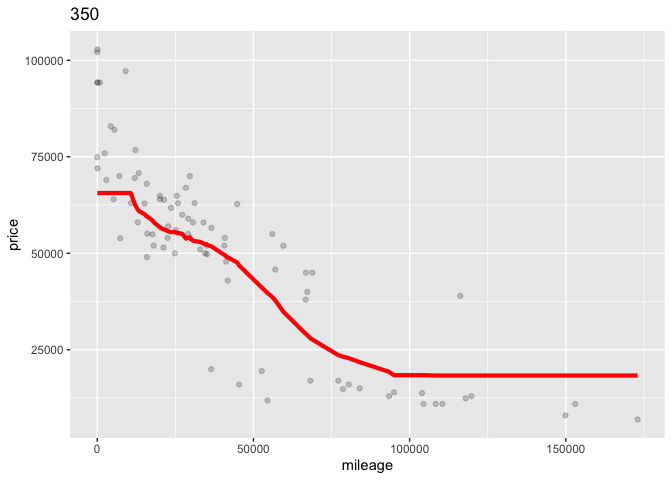
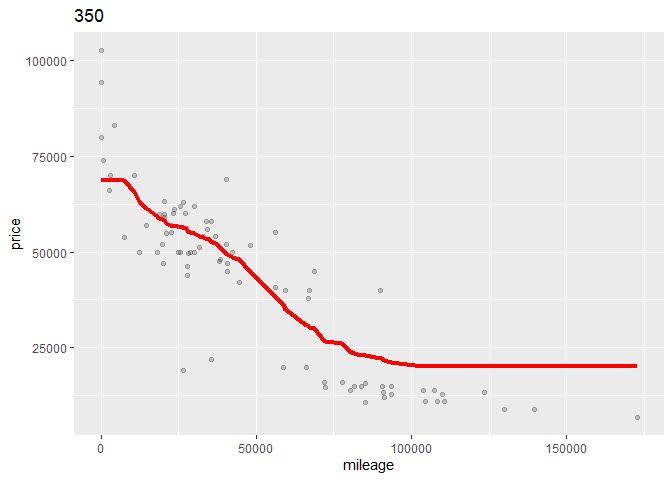
update some revision

diff --git a/Assignment-1.md b/Assignment-1.md
@@ -6,93 +6,132 @@ Li\_Zhao\_Du
 
 Yi\_Ji\_Gao
 
-## question 1
+question 1
+----------
 
 calculate the average departure delay time over 2008 and make a plot to
 show that
 
 ![](Assignment-1_files/figure-markdown_strict/plot%20average%20departure%20delay%20time%20over%202008-1.png)
 
-we can see the result that in most time, the delay time fluctulate
-between 0 and 20, and around Oct, the delay time is relatively small.
+we can see the result that in most time, the delay time flactulate
+between 0 and 20 minutes, and around Oct, the delay time is relatively
+small, around 5 minutes.
+
+next we try to calculate the average delay time base on average day, to
+reduce unnecessary trouble, we calculate the average delay time by hour
 
 ![](Assignment-1_files/figure-markdown_strict/delay%20day-1.png)
 
 we can find from 6am, the average delay time is increased in general,
-and due to schedule arrangement, there is no flight delarture between 00
+and due to schedule arrangement, there is no flight departure between 00
 and 06
 
 so we give a suggestion: try to catch earlier flight rather than later
 flight
 
+We finally analyzed the relationship between delay time and airlines.
+First, we selected airlines with more than 50 flights, and then
+calculated their average delay time according to their Time scheduled
+departure time.
+
 ![](Assignment-1_files/figure-markdown_strict/delay%20time%20affected%20by%20airline-1.png)
 
 from that plot we can see that overall, US airline has the minimum delay
-time, but we lack their data in some months, maybe they doesn’t arrange
-flightline during these months
+time, but we lack their data in some months or some time intervals,
+maybe they doesn’t arrange flight line during these conditions.
 
-## question 2
+question 2
+----------
 
-    ## # A tibble: 10 × 3
+part\_A Make a table of the top 10 most popular songs since 1958, as
+measured by the total number of weeks that a song spent on the Billboard
+Top 100.
+
+we get the result:
+
+    ## # A tibble: 10 x 3
     ## # Groups:   performer [10]
-    ##    performer                                 song                          count
-    ##    <chr>                                     <chr>                         <int>
-    ##  1 Imagine Dragons                           Radioactive                      87
-    ##  2 AWOLNATION                                Sail                             79
-    ##  3 Jason Mraz                                I'm Yours                        76
-    ##  4 The Weeknd                                Blinding Lights                  76
-    ##  5 LeAnn Rimes                               How Do I Live                    69
-    ##  6 LMFAO Featuring Lauren Bennett & GoonRock Party Rock Anthem                68
-    ##  7 OneRepublic                               Counting Stars                   68
-    ##  8 Adele                                     Rolling In The Deep              65
-    ##  9 Jewel                                     Foolish Games/You Were Meant…    65
-    ## 10 Carrie Underwood                          Before He Cheats                 64
+    ##    performer                              song                             count
+    ##    <chr>                                  <chr>                            <int>
+    ##  1 Imagine Dragons                        Radioactive                         87
+    ##  2 AWOLNATION                             Sail                                79
+    ##  3 Jason Mraz                             I'm Yours                           76
+    ##  4 The Weeknd                             Blinding Lights                     76
+    ##  5 LeAnn Rimes                            How Do I Live                       69
+    ##  6 LMFAO Featuring Lauren Bennett & Goon~ Party Rock Anthem                   68
+    ##  7 OneRepublic                            Counting Stars                      68
+    ##  8 Adele                                  Rolling In The Deep                 65
+    ##  9 Jewel                                  Foolish Games/You Were Meant Fo~    65
+    ## 10 Carrie Underwood                       Before He Cheats                    64
 
 from the table we can get top 10 most popular songs since 1958
 
-partB
+partB Is the “musical diversity” of the Billboard Top 100 changing over
+time?
 
 we first excludes the years 1958 and 2021 then we can counts the number
 of times that a given song appears on the Top 100 in a given year
 
-    ## # A tibble: 34,467 × 3
+    ## # A tibble: 34,467 x 3
     ## # Groups:   year [62]
-    ##     year song                                               count
-    ##    <int> <chr>                                              <int>
-    ##  1  1959 "¿Dònde Està Santa Claus? (Where Is Santa Claus?)"     1
-    ##  2  1959 "\"Yep!\""                                             9
-    ##  3  1959 "('til) I Kissed You"                                 16
-    ##  4  1959 "(All of a Sudden) My Heart Sings"                    15
-    ##  5  1959 "(I Don't Care) Only Love Me"                          4
-    ##  6  1959 "(I Wanna) Dance With The Teacher"                     3
-    ##  7  1959 "(I'll Be With You In) Apple Blossom Time"            11
-    ##  8  1959 "(If You Cry) True Love, True Love"                    9
-    ##  9  1959 "(New In) The Ways Of Love"                            7
-    ## 10  1959 "(Night Time Is) The Right Time"                       1
-    ## # … with 34,457 more rows
+    ##     year song                                       count
+    ##    <int> <chr>                                      <int>
+    ##  1  1959 "\"Yep!\""                                     9
+    ##  2  1959 "('til) I Kissed You"                         16
+    ##  3  1959 "(All of a Sudden) My Heart Sings"            15
+    ##  4  1959 "(I'll Be With You In) Apple Blossom Time"    11
+    ##  5  1959 "(I Don't Care) Only Love Me"                  4
+    ##  6  1959 "(I Wanna) Dance With The Teacher"             3
+    ##  7  1959 "(If You Cry) True Love, True Love"            9
+    ##  8  1959 "(New In) The Ways Of Love"                    7
+    ##  9  1959 "(Night Time Is) The Right Time"               1
+    ## 10  1959 "(Now and Then There's) A Fool Such As I"     15
+    ## # ... with 34,457 more rows
 
 then we count the number of unique songs that appeared on the Top 100 in
 each year, irrespective of how many times it had appeared.
 
 ![](Assignment-1_files/figure-markdown_strict/show%20musical%20diversity%20over%20the%20years-1.png)
 
-partC “ten-week hit” as a single song that appeared on the Billboard Top
-100 for at least ten weeks. we first find performer and music satisfy
-ten-week hit, then filter people who have less than 30 songs
+partC: “ten-week hit” as a single song that appeared on the Billboard
+Top 100 for at least ten weeks. we first find performer and music
+satisfy ten-week hit, then filter people who have less than 30 songs
 
 we can get the plot like:
 
 ![](Assignment-1_files/figure-markdown_strict/ten_week_hit_musicians%20list-1.png)
-## question 3
+\#\# question 3
 
-###a
+partA the 95th percentile of heights for female competitors across all
+Athletics events
+
+so we get 95 percentile height of each event and overall separately:
+
+    ## 95% 
+    ## 183
+
+    ## # A tibble: 27 x 2
+    ##    event                                ninety_fifth_percentile_height
+    ##    <chr>                                                         <dbl>
+    ##  1 Athletics Women's Shot Put                                     192.
+    ##  2 Athletics Women's Heptathlon                                   189.
+    ##  3 Athletics Women's Discus Throw                                 188.
+    ##  4 Athletics Women's High Jump                                    188 
+    ##  5 Athletics Women's Triple Jump                                  187.
+    ##  6 Athletics Women's Javelin Throw                                186.
+    ##  7 Athletics Women's Hammer Throw                                 184.
+    ##  8 Athletics Women's Pole Vault                                   183 
+    ##  9 Athletics Women's 400 metres Hurdles                           181.
+    ## 10 Athletics Women's Long Jump                                    181.
+    ## # ... with 17 more rows
 
 The 95th percentile of heights for female competitors across all
 Athletics events is 183
 
-###b
+Partb greatest variability in competitor’s heights
 
-    ## # A tibble: 1 × 2
+    ## # A tibble: 1 x 2
     ##   event                      height_var
     ##   <chr>                           <dbl>
     ## 1 Rowing Women's Coxed Fours       10.9
@@ -101,26 +140,25 @@ Rowing Women’s Coxed Fours had the greatest variability in competitor’s
 heights across the entire history of the Olympics, as measured by the
 standard deviation
 
-###c
+partc average age of Olympic swimmers changed over time
 
-    ## `summarise()` has grouped output by 'sex'. You can override using the `.groups`
-    ## argument.
+![](Assignment-1_files/figure-markdown_strict/show%20average%20swimmers%20age%20change-1.png)
 
-![](Assignment-1_files/figure-markdown_strict/unnamed-chunk-4-1.png) The
-average age of Olympic swimmers increased over time. The trend look
+The average age of Olympic swimmers increased over time. The trend look
 different for male swimmers relative to female swimmers
 
-## question 4
+question 4
+----------
 
-###1 Filter 350 & 65 AMG
+\#\#\#1 Filter 350 & 65 AMG
 
-###2 spilt to test& training set
+\#\#\#2 spilt to test& training set
 
-###3 run k nearest neighbors RMSEs
+\#\#\#3 run k nearest neighbors RMSEs
 
-    ## [1] 11057.23
+    ## [1] 8766.9
 
-    ## [1] 32540.74
+    ## [1] 37716.33
 
     ##    id trim subTrim condition isOneOwner mileage year  color displacement   fuel
     ## 1 282  350    unsp       CPO          f   21929 2012  Black        3.0 L Diesel
@@ -130,12 +168,12 @@ different for male swimmers relative to female swimmers
     ## 5 289  350    unsp      Used          t   66689 2012  Black        3.0 L Diesel
     ## 6 290  350    unsp       CPO          f   19567 2012  Black        3.0 L Diesel
     ##   state region   soundSystem wheelType wheelSize featureCount price fold_id
-    ## 1    MA    New          unsp      unsp      unsp           82 55994       5
-    ## 2    IL    ENC       Premium     Alloy      unsp           72 60900       3
-    ## 3    VA    SoA          unsp      unsp      unsp            5 54995       1
-    ## 4    NH    New Harman Kardon      unsp      unsp           83 59988       1
-    ## 5    NJ    Mid Harman Kardon     Alloy      unsp           79 37995       3
-    ## 6    LA    WSC       Premium     Alloy      unsp           76 59977       1
+    ## 1    MA    New          unsp      unsp      unsp           82 55994       3
+    ## 2    IL    ENC       Premium     Alloy      unsp           72 60900       5
+    ## 3    VA    SoA          unsp      unsp      unsp            5 54995       2
+    ## 4    NH    New Harman Kardon      unsp      unsp           83 59988       4
+    ## 5    NJ    Mid Harman Kardon     Alloy      unsp           79 37995       1
+    ## 6    LA    WSC       Premium     Alloy      unsp           76 59977       3
 
     ##     id   trim subTrim condition isOneOwner mileage year  color displacement
     ## 1 1060 65 AMG    unsp       New          f     106 2015  Black        6.0 L
@@ -152,46 +190,46 @@ different for male swimmers relative to female swimmers
     ## 5 Gasoline    OH    ENC        unsp      unsp      unsp           92 102500
     ## 6 Gasoline    CA    Pac        unsp      unsp      unsp            1 230860
     ##   fold_id
-    ## 1       4
-    ## 2       1
-    ## 3       2
+    ## 1       3
+    ## 2       2
+    ## 3       3
     ## 4       4
-    ## 5       4
-    ## 6       3
+    ## 5       3
+    ## 6       4
 
     ## Warning: executing %dopar% sequentially: no parallel backend registered
 
     ##          k      err  std_err
-    ## result.1 1 14488.50 740.9832
-    ## result.2 2 12491.00 703.0110
-    ## result.3 3 11393.74 637.9658
-    ## result.4 4 11258.93 563.1665
-    ## result.5 5 10813.69 610.7410
-    ## result.6 6 10576.47 510.6851
+    ## result.1 1 13768.32 281.5668
+    ## result.2 2 12010.59 558.2679
+    ## result.3 3 11323.97 576.4579
+    ## result.4 4 11201.95 556.7702
+    ## result.5 5 10828.79 578.0660
+    ## result.6 6 10611.76 588.8118
 
-    ##          k      err   std_err
-    ## result.1 1 31345.69 1035.2938
-    ## result.2 2 25433.27  847.9289
-    ## result.3 3 24634.72  929.5055
-    ## result.4 4 23997.87  769.9808
-    ## result.5 5 23887.78  809.8967
-    ## result.6 6 23553.32  786.9115
+    ##          k      err  std_err
+    ## result.1 1 29675.74 2032.202
+    ## result.2 2 25335.56 1816.294
+    ## result.3 3 23309.32 1422.852
+    ## result.4 4 22402.35 1466.851
+    ## result.5 5 22732.51 1428.089
+    ## result.6 6 21886.99 1404.297
 
-###4 the relationship for RMSE and k，can find optimal k（line or
+\#\#\#4 the relationship for RMSE and k，can find optimal k（line or
 point）
-![](Assignment-1_files/figure-markdown_strict/unnamed-chunk-9-1.png)![](Assignment-1_files/figure-markdown_strict/unnamed-chunk-9-2.png)
+![](Assignment-1_files/figure-markdown_strict/unnamed-chunk-6-1.png)![](Assignment-1_files/figure-markdown_strict/unnamed-chunk-6-2.png)
 The optimal k for 350 is 15, and the optimal k for 65 AMG is 22
 
-###5 model for each k (for each trim) ##6 Which trim have bigger optimal
-k? why?
+\#\#\#5 model for each k (for each trim) \#\#6 Which trim have bigger
+optimal k? why?
 
-    ## [1] 10748.88
+    ## [1] 10751.57
 
-![](Assignment-1_files/figure-markdown_strict/unnamed-chunk-10-1.png)
+![](Assignment-1_files/figure-markdown_strict/unnamed-chunk-7-1.png)
 
-    ## [1] 36860.9
+    ## [1] 34050.52
 
-![](Assignment-1_files/figure-markdown_strict/unnamed-chunk-10-2.png)
+![](Assignment-1_files/figure-markdown_strict/unnamed-chunk-7-2.png)
 
 65 AMG has a bigger optimal value of k.
 
